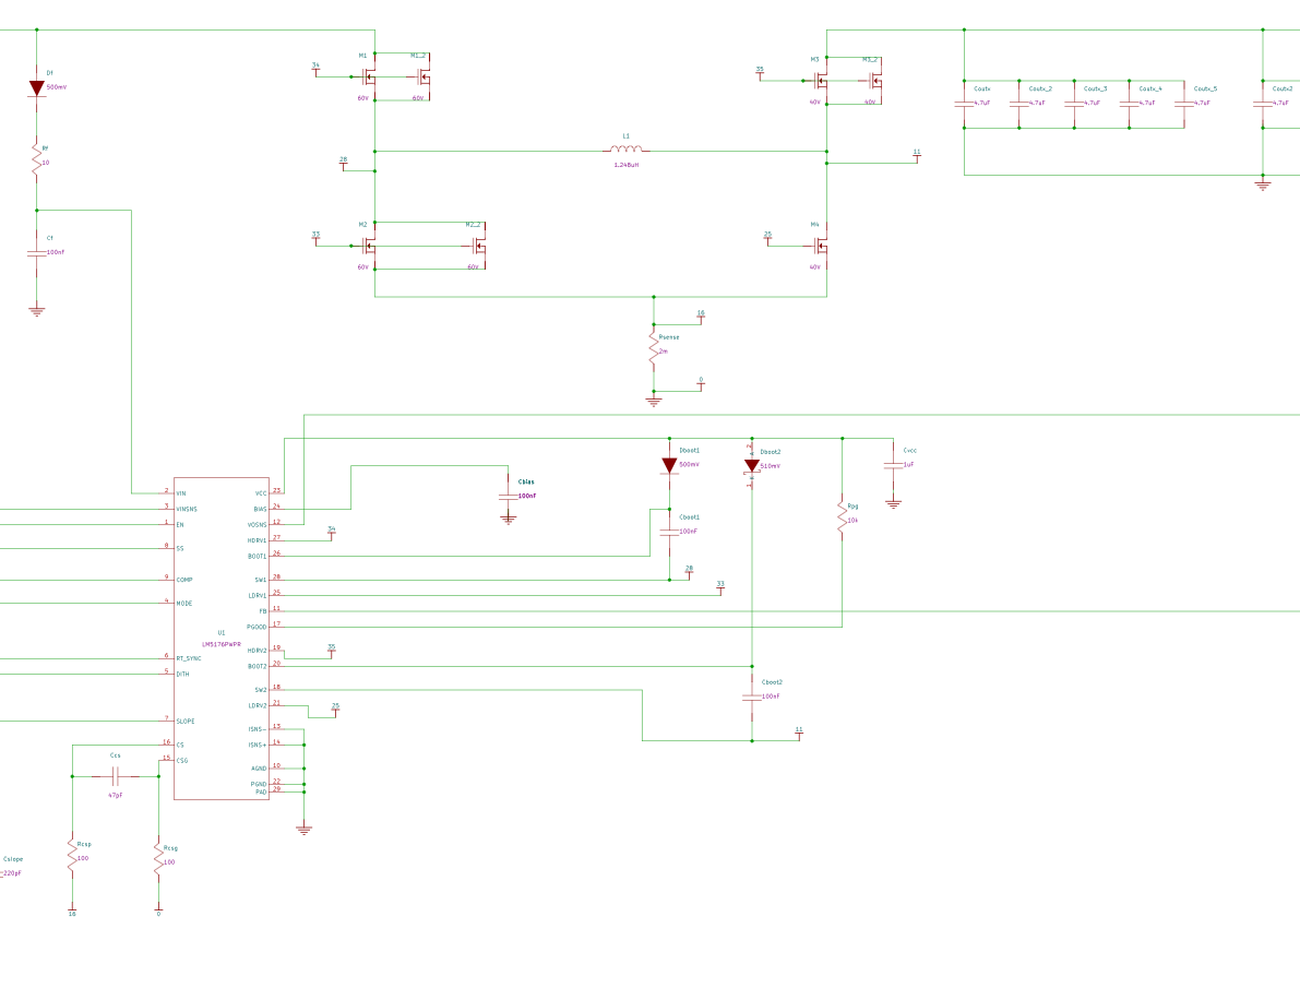
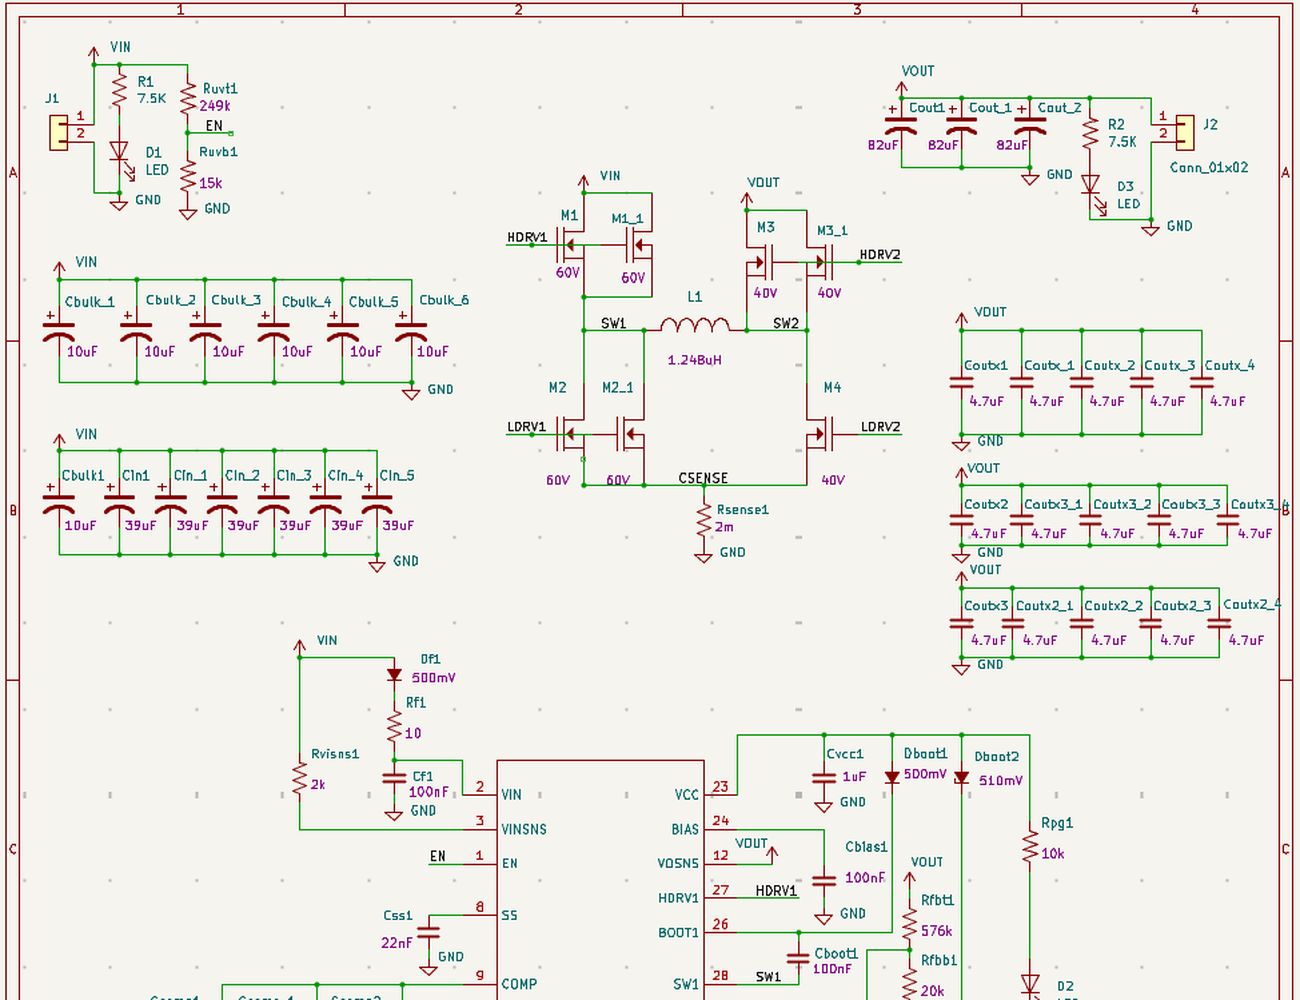
8.3 Updated Resume, added images to buck converter

diff --git a/projects/buck-converter.html b/projects/buck-converter.html
@@ -34,13 +34,17 @@
       </ul>
 
       <figure class="inline-figure">
-        <img src="/assets/img/buck-converter-schematic.png" alt="24V-24V buck converter schematic" />
+        <img src="/assets/img/buck-converter-schematic-v2.png" alt="24V-24V buck converter schematic, revision 1.0" />
       </figure>
     </section>
 
     <section class="project-section">
       <h2>Design Choices</h2>
       <p>With a focus on just a buck design and greatly reduced current needs I was able to use just one custom PCB as opposed to the three PCBs necessary for the initial design. The new design has lower power consumption, heat loss, size, and components. With less components I was able to add indicator LEDs to the input, output, and controller chip. By correcting the mistakes in the systems calculation I was able to avoid the need for a polyphase converter which reduces size and allows for exponentially easier troubleshooting. This is one of my favorite projects as it highlights two engineering aspects that are near and dear to my heart, intentionality and simplification!</p>
+
+      <figure class="inline-figure">
+        <img src="/assets/img/buck-converter-layout.png" alt="PCB layout for the 24V-24V buck converter" />
+      </figure>
     </section>
 
     <section class="project-section">
